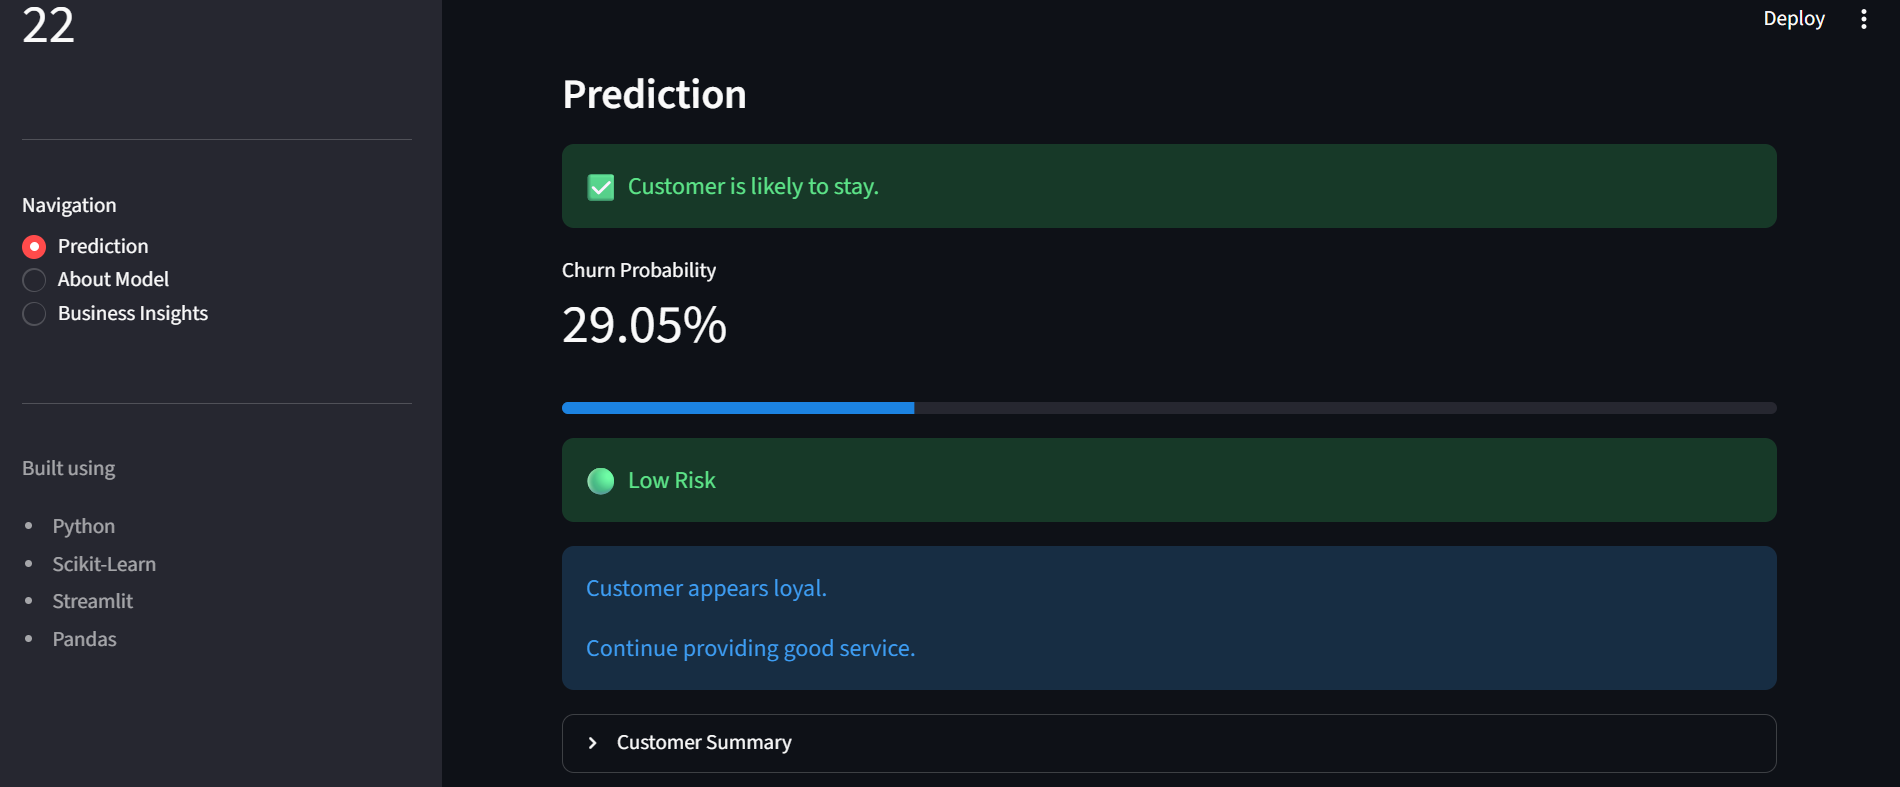
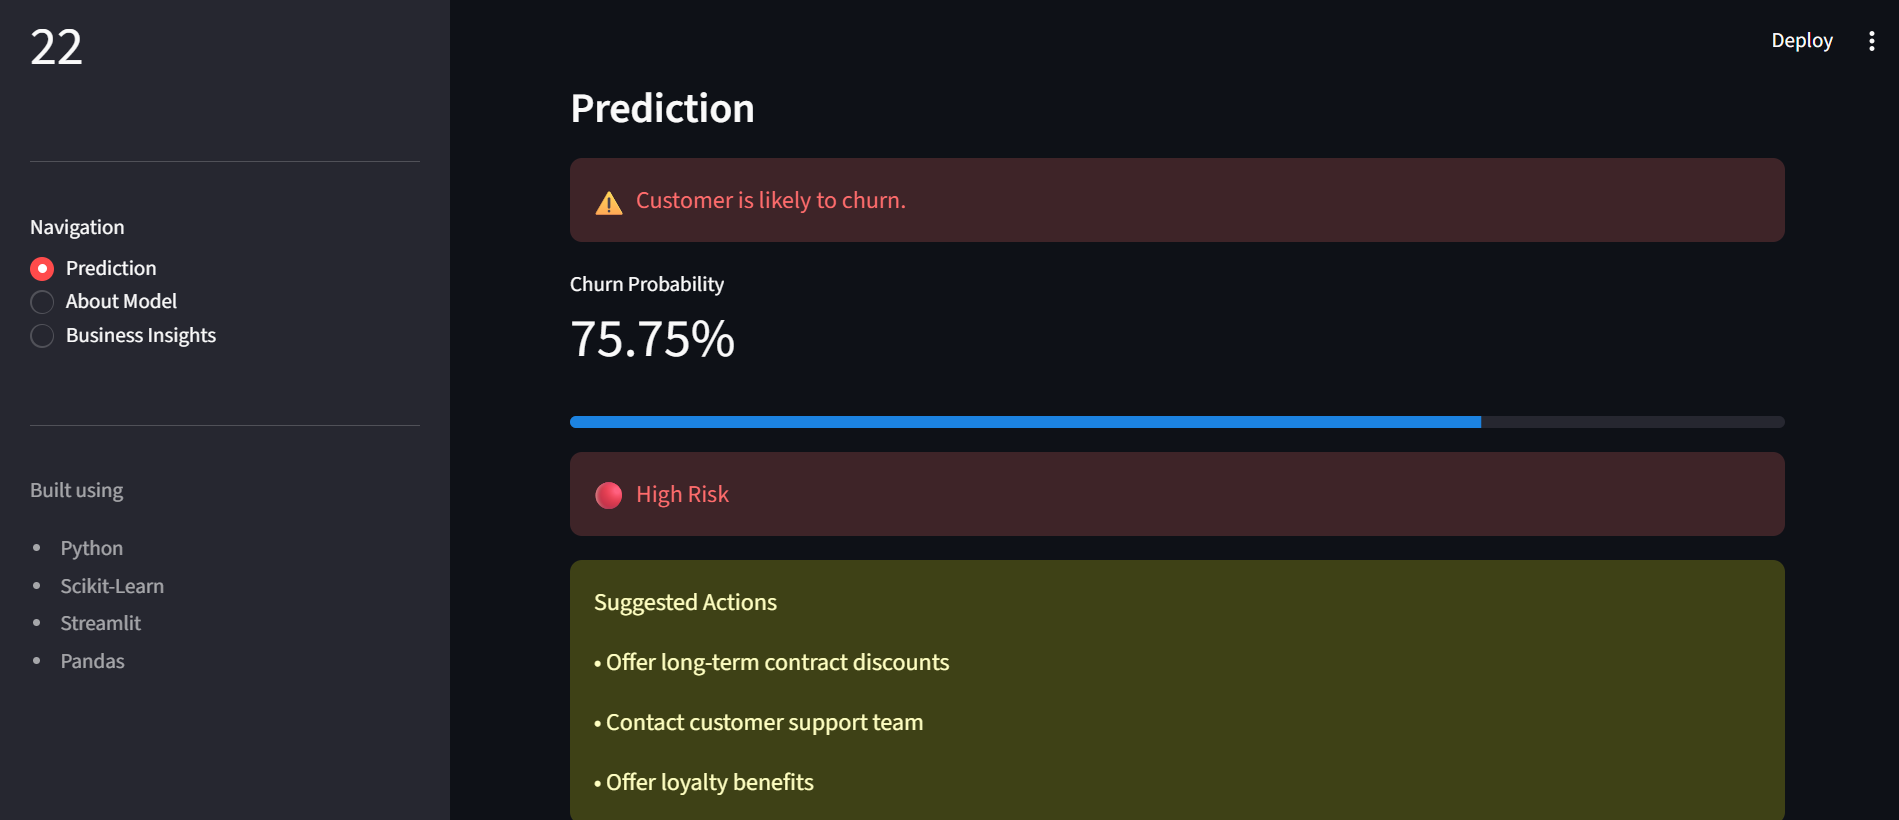
Modified ReadME

diff --git a/README.md b/README.md
@@ -5,44 +5,30 @@ An end-to-end Machine Learning project for customer churn prediction featuring d
 
 ## Dataset
 
-Dataset Used:
+- Dataset Used: IBM Telco Customer Churn Dataset
 
-IBM Telco Customer Churn Dataset
+- Target Variable: Churn (Yes / No)
 
-Target Variable:
+- Number of Customers: 7043
 
-Churn (Yes / No)
-
-Number of Customers:
-
-7043
-
-Features:
-
-19 original features
-3 engineered features
+- Features:
+    - 19 original features
+    - 3 engineered features
 
 ## Technologies Used
 
+```
 Python
-
 Pandas
-
 NumPy
-
 Matplotlib
-
 Scikit-learn
-
 Streamlit
-
 Joblib
-
 Git
-
 GitHub
-
 Power BI 
+```
 
 ## Project Structure
 
@@ -84,6 +70,16 @@ The project includes an interactive Streamlit application where users can:
 - Predict churn
 - View churn probability
 - See business recommendations
+
+![Home](images/home_page.png)
+
+---
+
+![High Risk](images/prediction_yes.png)
+
+---
+
+![Low Risk](images/prediction_no.png)
 
 ## Installation
 
